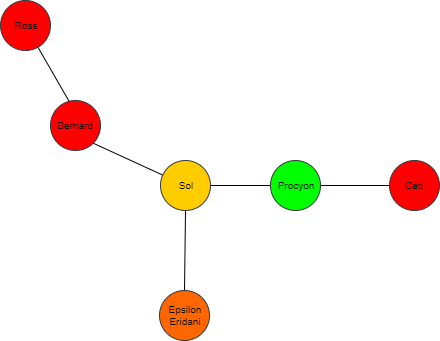
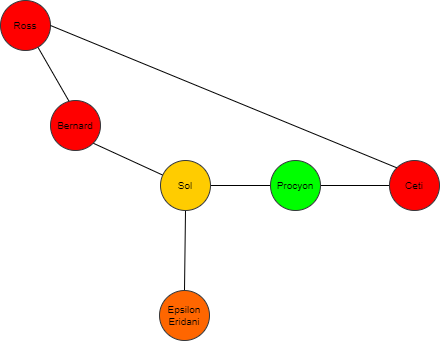
Added Ross-Ceti ERBridge

diff --git a/src/StellarSystems/Progression/DefaultSettingMaps/LocalSectorMap.cs b/src/StellarSystems/Progression/DefaultSettingMaps/LocalSectorMap.cs
@@ -356,6 +356,8 @@ public class LocalSectorMap
         solCluster.Add(bridge);
         bridge = ERBridgeHelper.CreateStarSystemBridge(Map, solCluster, "Ross", "Ophiuchi");
         solCluster.Add(bridge);
+        bridge = ERBridgeHelper.CreateStarSystemBridge(Map, solCluster, "Ross", "Ceti");
+        solCluster.Add(bridge);
         bridge = ERBridgeHelper.CreateStarSystemBridge(Map, solCluster, "Ophiuchi", "Little Ophiuchi");
         solCluster.Add(bridge);
         bridge = ERBridgeHelper.CreateStarSystemBridge(Map, solCluster, "Ophiuchi", "Wolf");

diff --git a/src/StellarSystems/Progression/DefaultSettingMaps/PY100DEMap.cs b/src/StellarSystems/Progression/DefaultSettingMaps/PY100DEMap.cs
@@ -195,6 +195,8 @@ public class PY100DEMap
         solCluster.Add(bridge);
         bridge = ERBridgeHelper.CreateStarSystemBridge(Map, solCluster, "Procyon", "Ceti");
         solCluster.Add(bridge);
+        bridge = ERBridgeHelper.CreateStarSystemBridge(Map, solCluster, "Ross", "Ceti");
+        solCluster.Add(bridge);
         #endregion
 
         return solCluster;
